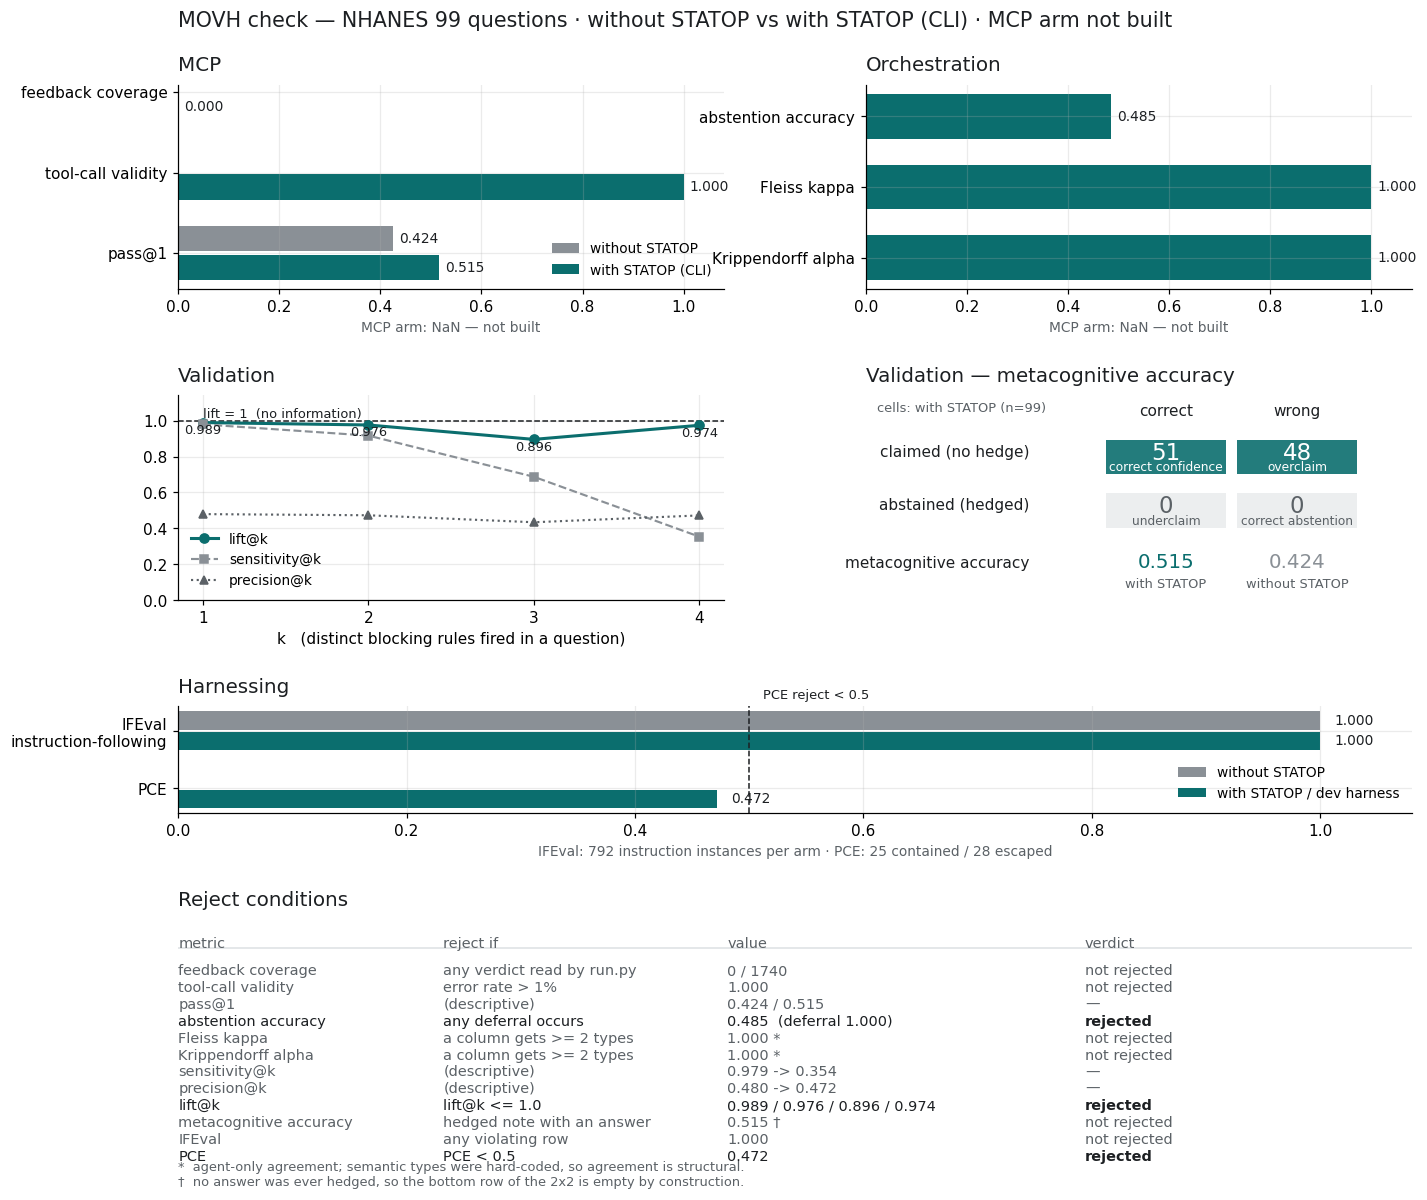
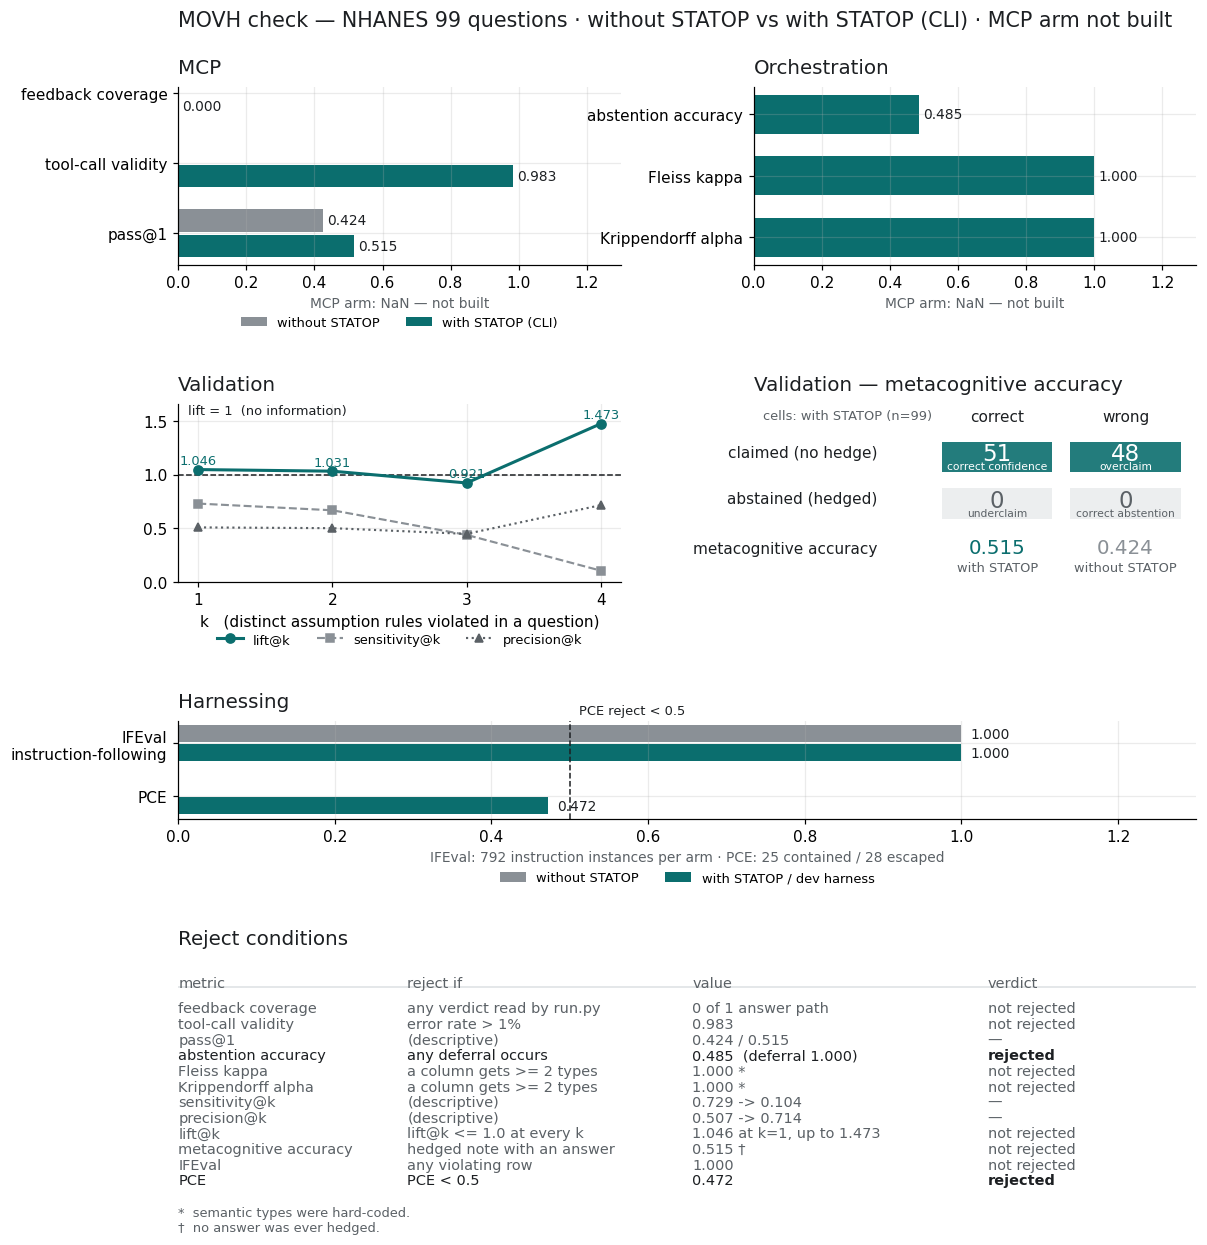
fix: correct the MOVH numbers and align the design table
Two measurement bugs inflated the earlier figure.

1. k was double-counted. 58 of the blocking lines carry both a test ID
   and a score ID (e.g. "T-1203 ... (SC-DIST-13)"); both were counted as
   separate rules. One line is now one rule. The k distribution moves
   from {2:17, 3:40, 4:36} to {2:46, 3:40, 4:7}.

2. Two kinds of verdict were pooled. Assumption violations and
   candidate-fit verdicts answer different questions, and pooling them
   cancelled the signal: pooled lift@1 is 0.989, assumption alone is
   1.046 rising to 1.473 at k=4. lift@k is no longer rejected. The
   candidate-fit family is rejected at every k and is left out of the
   figure and the table.

tool-call validity now counts calls that produced a value (0.983), not
calls that merely did not crash (1.000) — 30 calls ended in "calculator
not implemented", all on the 30 Q-12 questions. Those same 30 are why
compat check deferred, so they are no longer counted as the agent
ignoring a verdict.

Rejected drops from three to two: abstention accuracy and PCE.

The reject table is now generated from the tsv instead of being written
by hand, which is what let the stale numbers survive.

Claude-Session: https://claude.ai/code/session_0189t1fHCsF9Cp8a9NnzqMFa

diff --git a/MOVH_check/mini_check.md b/MOVH_check/mini_check.md
@@ -25,7 +25,7 @@ NaN 은 0 이 아니라 "확인 못 했다".
 | **adaptivity** (시퀀스 편집거리) | 로그의 호출 시퀀스 | 문항 **99** | CLI 는 문항별로 적응하지 않는다 | 고유 시퀀스 **≥3종** 또는 평균 편집거리 **>0** | 외부 |
 | **선결정률** | `make_sessions.py` 의 결정표 | 문항 **99** | 결정은 도구를 부르기 전에 끝나 있다 | 도구 출력을 보고 정한 결정 **≥1건** | 반외부 |
 | **redundancy rate** | 두 `run.py` (AST 함수 단위, 세션 보조코드 제외) | 답 생성 코드 줄 수 | 도구를 써도 작업량이 줄지 않는다 | with **<** without | 반외부 |
-| **tool-call validity rate** | 로그 stdout | 호출 **1740** | 인터페이스 안정성은 문제가 아니다 | 오류 호출 비율 **>1%** | 외부 |
+| **tool-call validity** | 로그 stdout | 호출 **1740** | 호출이 값을 낸다 | **값을 못 낸 호출 비율 >1%**. 죽지 않은 것만 세면 '아직 계산기가 없습니다' 로 끝난 호출이 성공으로 잡힌다 | 외부 |
 | **위임률** | 지시문의 13개 지정작업 × `run.py` | **13작업 × 99문항** | 지정 작업을 도구에 맡겼다 | pandas 로 재구현된 지정작업 **≥1** | 반외부 |
 | **pass@1** | `answers.csv` + 공표 정답 | 문항 **99** | — (기술값) | — | 외부 |
 | ~~pass@k (k≥2)~~ | — | — | — | **측정 불가** — 반복 실행 없음 | — |
@@ -37,10 +37,12 @@ NaN 은 0 이 아니라 "확인 못 했다".
 | 지표 | 쓰는 정보 | n수 | 가설 | 기각조건 | 증거 |
 |---|---|---|---|---|---|
 | **dependency violation rate** | 로그의 `보류` 출현 | 문항 **99** | 단계 의존(타입 확정 → 판정)을 지켰다 | `보류` 문항 **>0** | 외부 |
-| **abstention accuracy** | 보류 ∩ 무검정 일치, 로그 `보류` + 세션 `test_result` 유무 | 문항 **99** | `보류` 건은 **설계상 검정 없는 문항**과 같은 집합이다 (실패 아님) | 두 집합의 **대칭차 >0** | 외부 |
+| **abstention accuracy** | 유보(기권·우회·미반영) × 공표 정답 | 문항 **99** | 유보한 문항은 실제로 답이 틀린 문항이다 | **유보가 한 번이라도 발생** | 외부 |
+| | | | | 유보 = 기권(명시적 포기) + 우회(지정 도구 밖에서 처리) + 미반영(판정을 해소하지 않고 진행). STATOP 이 애초에 못 푸는 문항은 미반영으로 세지 않는다 | |
 | **step completion rate** | 로그 호출 수 | 문항 **99** | — (기술값) | — | 외부 |
 | **reuse rate** | 세션 `filter_rows` · `analysis_spec` | 문항 **99** | 앞 문항의 결정을 뒤에서 재사용한다 | 고유 (filter, y) 조합 / 99 가 **1.0 에 근접** | 외부 |
-| **consistency (Fleiss kappa / krippendorff alpha)** | 세션 `semantic_confirm` | **고유 `y` 수** | 같은 `y` 에 같은 의미 타입을 준다 | 한 `y` 에 타입 **≥2종** | 외부 |
+| **Fleiss kappa · Krippendorff alpha** | 세션 `semantic_confirm` | **컬럼 28개**(평가 2회 이상) | 같은 컬럼에 같은 의미 타입을 준다 | 한 컬럼에 타입 **≥2종** | 외부 |
+| | | | | 구조적 주의: 타입이 결정표에 하드코딩돼 일치가 보장된다. 도구와의 일치가 아니라 **에이전트 자기일치**다 | |
 | **세션 ↔ 코드 정합** | 세션 + `run.py` | 문항 **99** | 세션이 정한 것을 답 코드가 따랐다 | 불일치 **≥1**. **일치해도 인과는 성립 안 함** — 둘 다 같은 결정표에서 나왔을 뿐 | 반외부 |
 | **sequence entropy** | 호출 시퀀스 분포 | 문항 **99** (상한 log₂99) | — (기술값) | — | 외부 |
 
@@ -49,21 +51,23 @@ NaN 은 0 이 아니라 "확인 못 했다".
 ## 3. Validation — 판정 결과
 
 판정을 예측기로, 공표 정답 대비 오답 여부.
-`k` = 한 문항에 뜬 고유 규칙 ID 수.
+`k` = 한 문항에 뜬 **고유 가정 위배 규칙 수**. 한 줄에 검정 ID 와 점수 ID 가 같이
+적히는 경우가 있어 **줄 하나를 규칙 하나로** 센다 — 둘 다 세면 k 가 두 배가 된다.
 
 | 지표 | 쓰는 정보 | n수 | 가설 | 기각조건 | 증거 |
 |---|---|---|---|---|---|
-| **sensitivity@k · precision@k · lift@k** | 로그의 ⛔ 규칙 ID + 공표 정답 | 문항 **99**, k=1…5 | ⛔ 가 오답을 예측한다 | **lift@k ≤ 1.0** | 외부 |
+| **sensitivity@k · precision@k · lift@k** | 로그의 ⛔ 규칙 ID + 공표 정답 | 문항 **99**, k=1…4 | ⛔ 가 오답을 예측한다 | **모든 k 에서 lift@k ≤ 1.0** | 외부 |
 | **specificity · NPV** | 같음 | 문항 **99** | ⛔ 가 없으면 믿어도 된다 | NPV ≈ 기저 정답률 | 외부 |
 | **등급 단조성** | ⛔ / ⚠ / ○ 등급별 실제 오답률 | 문항 **99** | 등급이 위험도 순서를 담는다 | **단조증가가 깨짐** | 외부 |
 | **MCC · balanced accuracy · F1@k** | 같음 | 문항 **99** | — (불균형 보정 요약) | — | 외부 |
 | **AUROC · AUPRC** | 고유 규칙 수를 점수로 | 문항 **99** | 임계 없이 순위력이 있다 | **AUROC ≤ 0.5** | 외부 |
-| **규칙 계열별 lift** ★ | ⛔ 를 규칙 ID 로 분해 → 가중치 계열 / 가정 계열 | **규칙 발생 건수** | 경고와 오답이 **같은 대상**을 가리킨다 | 계열을 갈라도 **전 계열 lift ≈ 1** | 외부 |
+| **규칙 계열 분리** ★ | ⛔ 를 규칙 ID 로 분해 → 가정 위배 계열 / 후보 적합성 계열 | **규칙 발생 건수** | 두 계열이 같은 것을 가리킨다 | 계열별 lift 가 서로 다른 방향 | 외부 |
 | **answer 정확도** (exact · partial · strict · 논문 자) | 공표 정답 | 문항 **99 × 2팔** | STATOP 을 쓴 쪽이 더 정확하다 | 차이 없음 또는 역전 | 외부 |
 | **자기보고 정직성** | `note` + `answer` + 공표 정답 | 문항 **99 × 2팔** | 못 푼 것을 채워 넣지 않았다 | `note` 가 '못 풀었다'인데 `answer` 존재 **≥1** | 내부 → 정답 대조로 외부화 |
 
-**「규칙 계열별 lift」가 이 갈래의 핵심이다.** 전체 lift 하나만 보면
-*경고가 소음인지* 와 *경고와 오답이 다른 대상을 가리키는지* 가 구분되지 않는다.
+**계열을 갈라야 한다.** 섞어서 재면 신호가 지워진다 — 합쳐서 보면 lift@1 이
+0.989 로 무정보처럼 보이지만, 가정 위배 계열만 보면 1.046 이다. 후보 적합성 계열은
+기각됐으므로(전 k 에서 lift < 1) **그림과 표에는 가정 위배 계열만 싣는다.**
 
 ---
 
